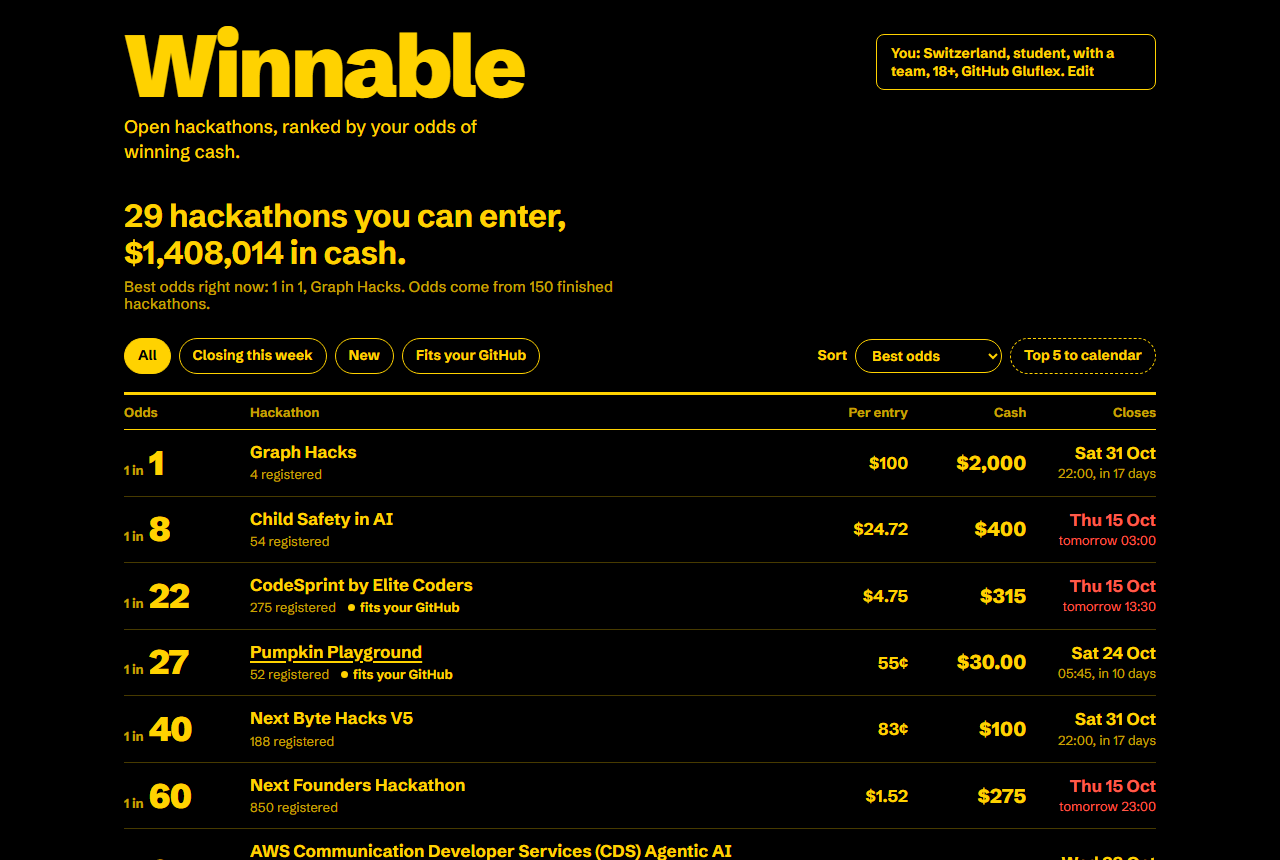
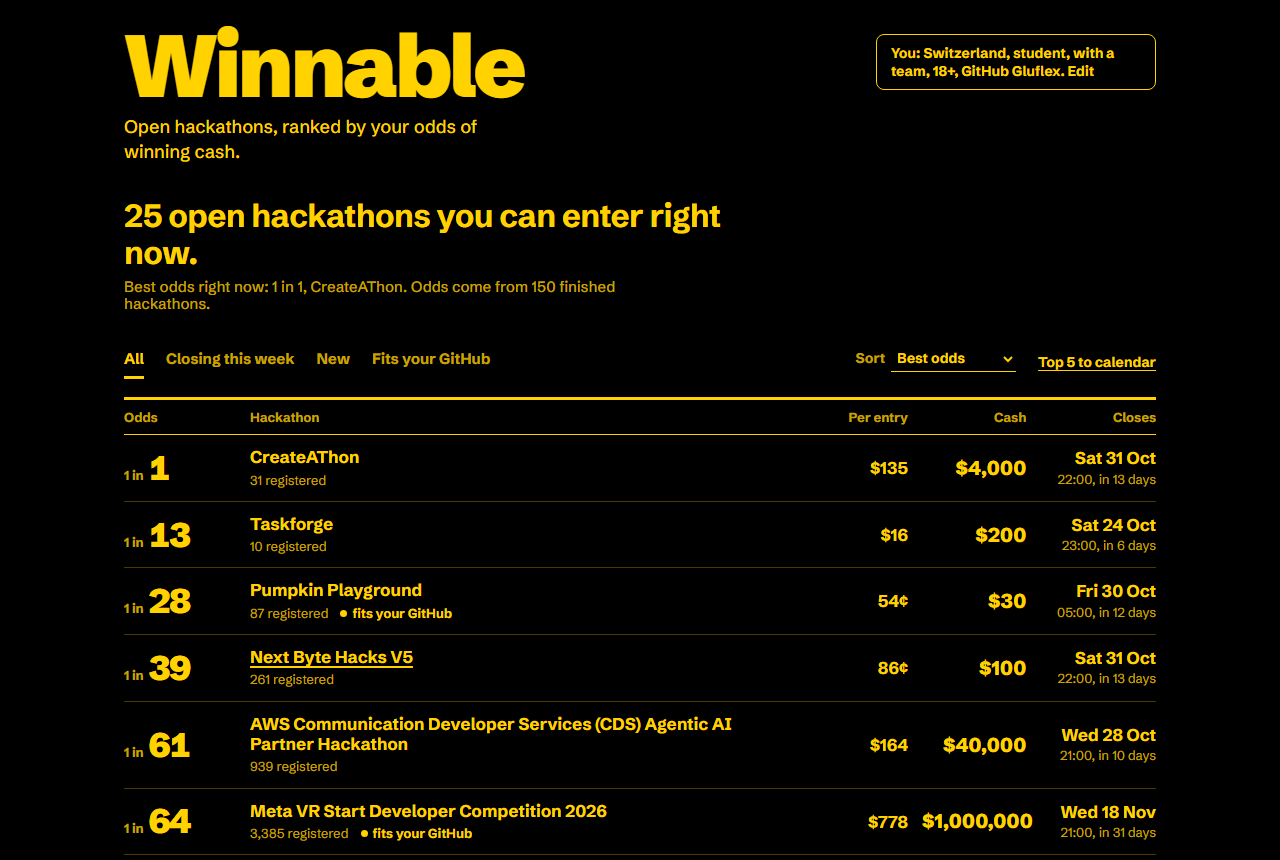
Final review and app map; README on 18.10 figures; first-visit panel guard

diff --git a/devpost/app-map.html b/devpost/app-map.html
@@ -1,0 +1,150 @@
+<!doctype html>
+<html lang="en">
+<head>
+<meta charset="utf-8">
+<meta name="viewport" content="width=device-width, initial-scale=1">
+<title>Winnable: app map</title>
+<style>
+  :root { --board: #ffd200; --ink: #000; --muted: rgba(0,0,0,.62); --rule: rgba(0,0,0,.22); --panel: #fff; }
+  * { box-sizing: border-box; }
+  html { background: var(--board); }
+  body { margin: 0 auto; max-width: 980px; padding: 40px 24px 80px; color: var(--ink);
+    font: 400 17px/1.5 "Helvetica Neue", Arial, sans-serif; }
+  h1 { font-size: 64px; line-height: .9; letter-spacing: -.04em; margin: 0 0 10px; font-weight: 900; }
+  h2 { font-size: 28px; letter-spacing: -.01em; margin: 44px 0 12px; padding-top: 14px; border-top: 4px solid var(--ink); }
+  h3 { font-size: 19px; margin: 0 0 6px; }
+  p, li { max-width: 72ch; }
+  .lead { font-size: 21px; font-weight: 500; }
+  .meta { color: var(--muted); font-size: 15px; }
+  code { font: 600 .92em/1.3 Consolas, "SF Mono", Menlo, monospace; background: rgba(0,0,0,.08); padding: 1px 5px; border-radius: 4px; }
+  pre { background: var(--panel); border: 2px solid var(--ink); border-radius: 10px; padding: 14px 16px; overflow-x: auto; font: 14px/1.45 Consolas, "SF Mono", Menlo, monospace; }
+  pre code { background: none; padding: 0; font-weight: 400; }
+  .stop { background: var(--panel); border: 2px solid var(--ink); border-radius: 12px; padding: 18px 20px; margin: 14px 0; }
+  .stop .n { display: inline-block; min-width: 34px; height: 34px; line-height: 34px; text-align: center; background: var(--ink); color: var(--board); border-radius: 50%; font-weight: 900; margin-right: 10px; }
+  .where { font-size: 15px; color: var(--muted); margin: 4px 0 8px; }
+  details { margin-top: 8px; }
+  summary { cursor: pointer; font-weight: 700; }
+  summary:focus-visible, a:focus-visible { outline: 3px solid var(--ink); outline-offset: 3px; }
+  table { border-collapse: collapse; width: 100%; background: var(--panel); border: 2px solid var(--ink); border-radius: 10px; overflow: hidden; }
+  td, th { text-align: left; padding: 10px 14px; border-bottom: 1px solid var(--rule); vertical-align: top; font-size: 16px; }
+  th { background: var(--ink); color: var(--board); }
+  svg { width: 100%; height: auto; display: block; }
+  .note { border-left: 0; background: rgba(0,0,0,.07); padding: 14px 18px; border-radius: 10px; }
+</style>
+</head>
+<body>
+<header>
+  <h1>Winnable</h1>
+  <p class="lead">App map: where things live, and one action followed from click to result.</p>
+  <p class="meta">Snapshot of commit <code>8dc153c</code> (18 October 2026). Code moves on; if a name below no longer matches, search for it.</p>
+</header>
+
+<h2>What the app does</h2>
+<p>Winnable lists every open Devpost hackathon and ranks it by your odds of winning cash. Three pieces do the work:</p>
+<ul>
+  <li><b>Collector</b> (<code>collector/collect.py</code>): runs daily, reads the Devpost API and every hackathon page, keeps only cash prizes, and fits how many registrants really submit. It writes one file, <code>data/hackathons.json</code>.</li>
+  <li><b>Ranking</b> (<code>site/js/rank.js</code>): pure functions that turn that file plus your profile into odds, expected cash and reasons you cannot enter. Tested in Node.</li>
+  <li><b>Board</b> (<code>site/js/app.js</code>): the page you see. Draws rows, the detail receipt and the "How the odds work" chart. Your profile stays in the browser's local storage.</li>
+</ul>
+
+<h2>One action, end to end</h2>
+<p>The action: open <b>About you</b>, pick a country, age and student status, press <b>Show my odds</b>. The board re-sorts and some hackathons move to "Not for you" with a reason.</p>
+
+<svg viewBox="0 0 940 300" role="img" aria-labelledby="dgT dgD">
+  <title id="dgT">Flow of the Show my odds action</title>
+  <desc id="dgD">The collector writes data/hackathons.json once a day. In the browser, the Show my odds handler in app.js saves the profile and calls render, which calls rankAll in rank.js; rankAll computes odds and eligibility for each hackathon from the data file and the profile, and render draws the ranked rows.</desc>
+  <defs><marker id="ar" viewBox="0 0 10 10" refX="9" refY="5" markerWidth="8" markerHeight="8" orient="auto"><path d="M0 0L10 5L0 10z" fill="#000"/></marker></defs>
+  <g font-family="Helvetica Neue, Arial, sans-serif" font-size="15">
+    <rect x="10" y="20" width="200" height="90" rx="10" fill="#fff" stroke="#000" stroke-width="2"/>
+    <text x="24" y="50" font-weight="700">collector/collect.py</text>
+    <text x="24" y="72">daily: Devpost, cash only,</text>
+    <text x="24" y="92">calibrate()</text>
+    <rect x="10" y="190" width="200" height="80" rx="10" fill="#000"/>
+    <text x="24" y="222" font-weight="700" fill="#ffd200">data/hackathons.json</text>
+    <text x="24" y="246" fill="#ffd200">hackathons + calibration</text>
+    <line x1="110" y1="110" x2="110" y2="186" stroke="#000" stroke-width="2" marker-end="url(#ar)"/>
+
+    <rect x="290" y="20" width="200" height="90" rx="10" fill="#fff" stroke="#000" stroke-width="2"/>
+    <text x="304" y="50" font-weight="700">1  app.js</text>
+    <text x="304" y="72">#pfDone handler:</text>
+    <text x="304" y="92">save profile, render(true)</text>
+
+    <rect x="560" y="20" width="200" height="90" rx="10" fill="#fff" stroke="#000" stroke-width="2"/>
+    <text x="574" y="50" font-weight="700">2  rank.js</text>
+    <text x="574" y="72">rankAll(): odds(),</text>
+    <text x="574" y="92">ineligibility()</text>
+
+    <rect x="560" y="190" width="200" height="80" rx="10" fill="#fff" stroke="#000" stroke-width="2"/>
+    <text x="574" y="222" font-weight="700">3  app.js render()</text>
+    <text x="574" y="246">rows, summary, receipt</text>
+
+    <rect x="800" y="190" width="130" height="80" rx="10" fill="#ffd200" stroke="#000" stroke-width="2"/>
+    <text x="814" y="222" font-weight="700">The board</text>
+    <text x="814" y="246">"1 in 61"</text>
+
+    <line x1="490" y1="65" x2="556" y2="65" stroke="#000" stroke-width="2" marker-end="url(#ar)"/>
+    <line x1="660" y1="110" x2="660" y2="186" stroke="#000" stroke-width="2" marker-end="url(#ar)"/>
+    <line x1="760" y1="230" x2="796" y2="230" stroke="#000" stroke-width="2" marker-end="url(#ar)"/>
+    <path d="M210 230 C 380 230, 420 160, 556 95" fill="none" stroke="#000" stroke-width="2" stroke-dasharray="6 5" marker-end="url(#ar)"/>
+    <text x="228" y="262" font-size="13">fetched once at boot()</text>
+  </g>
+</svg>
+
+<h2>Reference route</h2>
+<p class="meta">A route to follow on your own; it was not toured together. Open the folder in your editor and search for each anchor.</p>
+
+<div class="stop">
+  <h3><span class="n">1</span>The button saves your profile and redraws</h3>
+  <p class="where"><code>site/js/app.js</code>, search <code>openAbout</code>, then <code>$('#pfDone').onclick</code></p>
+  <p><code>openAbout()</code> builds the About you panel. Every change calls <code>update()</code>, which writes the profile to local storage with <code>save(PKEY, profile)</code>. Show my odds closes the panel and calls <code>render(true)</code>; the <code>true</code> turns on the row animation.</p>
+  <details><summary>The handler</summary>
+<pre><code>$('#pfDone').onclick = async () =&gt; {
+  update();
+  closePanel();
+  render(true);
+  await loadGithub();
+};</code></pre></details>
+</div>
+
+<div class="stop">
+  <h3><span class="n">2</span>The odds and the reasons are worked out</h3>
+  <p class="where"><code>site/js/rank.js</code>, search <code>export function rankAll</code>, <code>export function odds</code>, <code>export function ineligibility</code></p>
+  <p><code>rankAll()</code> runs two functions per hackathon. <code>odds()</code> projects registrants to the deadline (<code>projectedRegistrants</code>), converts them to expected submissions with the calibration <code>a × registrants^b</code> (<code>expectedSubmissions</code>), and divides cash prize slots by that. <code>ineligibility()</code> returns plain reasons such as "Not open in Brazil" or "In person: Singapore". No reasons and open long enough: the row goes to the ranked list; otherwise "Not for you" or "Opening soon".</p>
+  <details><summary>The odds in one place</summary>
+<pre><code>const projected = projectedRegistrants(h, now);
+const subs = expectedSubmissions(projected, calib);
+const pAny = slots ? Math.min(1, slots / subs) : 0;
+// oneIn = round(1 / pAny), ev = totalCash / max(subs, slots)</code></pre></details>
+</div>
+
+<div class="stop">
+  <h3><span class="n">3</span>The result is drawn</h3>
+  <p class="where"><code>site/js/app.js</code>, search <code>function render</code>, <code>function rowHtml</code>, <code>function openDetail</code></p>
+  <p><code>render()</code> calls <code>rankAll(DATA, profile, new Date(), sort)</code>, writes each row with <code>rowHtml()</code> and the headline with <code>summary()</code>. Clicking a row runs <code>openDetail()</code>, which prints the same numbers as a receipt: registered today, projected, expected to submit, cash prizes, chance, expected cash.</p>
+</div>
+
+<h2>To change this, start here</h2>
+<table>
+  <tr><th>You want to change</th><th>Start at</th><th>Check with</th></tr>
+  <tr><td>How odds are calculated</td><td><code>site/js/rank.js</code> <code>odds()</code>, <code>expectedSubmissions()</code></td><td><code>node tests/test_rank.mjs</code></td></tr>
+  <tr><td>A new "cannot enter" rule</td><td><code>rank.js</code> <code>ineligibility()</code>; the data comes from <code>collector/collect.py</code> <code>parse_eligibility()</code></td><td><code>node tests/test_rank.mjs</code></td></tr>
+  <tr><td>What counts as cash</td><td><code>collect.py</code> <code>paid_in_kind()</code>, <code>parse_prizes()</code>; <code>rank.js</code> <code>isParticipation</code></td><td>rerun the collector, open a hackathon's Prizes</td></tr>
+  <tr><td>How a location reads in a reason</td><td><code>rank.js</code> <code>place()</code> (trims organiser-typed trailing commas, added 18.10)</td><td><code>node tests/test_rank.mjs</code></td></tr>
+  <tr><td>Colours and type</td><td><code>site/css/style.css</code> tokens <code>--board</code>, <code>--ink</code></td><td><code>python tests/verify.py</code> (desktop, dark, phone screenshots)</td></tr>
+</table>
+
+<h2>A practice to reuse</h2>
+<div class="note">
+  <p><b>Name the one assumption the product depends on, and test it against real data early.</b> Every ranking here rests on one guess: how many registrants actually submit. <code>devpost/spec.md</code>, section "Decisions and Open Issues", records it as the genuine uncertainty, with five finished hackathons giving rates from 0.24 to 0.53. The build then fitted the curve on 150 finished hackathons (<code>calibrate()</code> in <code>collector/collect.py</code>) and shows the scatter in "How the odds work", so the spread is visible instead of hidden.</p>
+  <p>The same habit caught the plan's gaps. The first real data put a hackathon that opened that day at the top on four registrants; the fix (project the field from the elapsed share of the period, hold back hackathons under a fifth through) is recorded under "Revisions" in <code>devpost/checklist.md</code> and pinned by the <code>projectedRegistrants</code> tests in <code>tests/test_rank.mjs</code>.</p>
+  <p>On another project: write the riskiest assumption into the spec, check it on a handful of real cases before building on it, and when real data proves the plan wrong, record the revision and add a test that keeps the fix in place.</p>
+</div>
+
+<h2>Run it again</h2>
+<pre><code>python collector/collect.py          # first run about 20 minutes (calibration), later about 3
+python -m http.server 8080           # then open http://localhost:8080/site/
+node tests/test_rank.mjs &amp;&amp; node tests/test_ics_github.mjs
+python tests/verify.py http://localhost:8080/site/   # needs Playwright</code></pre>
+<p class="meta">Needs Python 3.12 and curl (Devpost refuses Python's own HTTP client). No build step. Live version: winnable.lcatarci.workers.dev</p>
+</body>
+</html>

diff --git a/site/js/app.js b/site/js/app.js
@@ -315,7 +315,8 @@ async function boot() {
   $('#sortSel').onchange = (e) => { sort = e.target.value; render(true); };
   $('#topCal').onclick = () => download('winnable-top5.ics', buildIcs(ranked.eligible.filter((r) => r.oneIn).slice(0, 5)));
   save(VKEY, new Date().toISOString());
-  if (!hasProfile()) setTimeout(openAbout, 600);
+  // first visit: offer the profile, unless the visitor already opened a panel or answered
+  if (!hasProfile()) setTimeout(() => !hasProfile() && $('#panel').hidden && openAbout(), 600);
   else loadGithub();
 }
 boot();

diff --git a/devpost/checklist.md b/devpost/checklist.md
@@ -83,23 +83,25 @@ Build mode: fast
 ## Hands-on Checkpoints
 
 - [x] Early usable behavior explored — after slices 3 to 6: agent click-through with screenshots on desktop light, dark and phone; fixes applied (open count on first visit, lighter overlay, phone labels for per-entry and cash)
-- [ ] Final kick-the-tires exploration and feedback completed
+- [x] Final kick-the-tires exploration and feedback completed — 18 Oct, agent exploration under Leandro's delegation (14.10.2026): live board with two profiles (Brazil, under 18, high school: 0 enterable, every empty state reads clearly; Germany, adult: 11 enterable), unknown GitHub user (message shown, filter hidden), all filters and sorts, detail open and Escape, top-5 calendar (5 valid events), phone at 375 px (no sideways scroll), desktop light and dark via tests/verify.py (0 console errors)
 
 ## Final Review
 
-- [ ] Final review complete — feedback resolved and learner confirms ready to ship
+- [x] Final review complete — feedback resolved and learner confirms ready to ship (confirmation under Leandro's delegation of 14.10.2026; his own look happens when he reviews the submission package)
+- [x] Fix: organiser-typed trailing commas in locations ("In person: Block 45, Sharda University, ") — `place()` in rank.js, test added, committed
+- [x] Fix: the first-visit About panel no longer reopens over a panel the visitor already opened within 600 ms — guarded in `boot()`, checked in the browser
 
 ## Code Tour and App Map
 
-- [ ] Learning activity complete — guided route, focused alternative, prior practice connected, or brief recap
-- [ ] Optional edit and transfer reflection addressed — offered/declined/already covered/not applicable as appropriate
-- [ ] `devpost/app-map.html` generated from finished code, checked, and shown, including a project-grounded practice to reuse
+- [x] Learning activity complete — guided route, focused alternative, prior practice connected, or brief recap
+- [x] Optional edit and transfer reflection addressed — offered/declined/already covered/not applicable as appropriate
+- [x] `devpost/app-map.html` generated from finished code, checked, and shown, including a project-grounded practice to reuse
 
-Activity and evidence: not started
-Route and stops: not started
-Edit outcome: not started
-Reflection: not started
-Activity mode: not started
+Activity and evidence: brief evidence-based recap, not hands-on practice (the learner delegated the build and was not present). Evidence: spec.md "Decisions and Open Issues" (submission-rate uncertainty, 5 points, 0.24 to 0.53) resolved by the 150-point calibration; the day-one ranking revision pinned by the projectedRegistrants tests
+Route and stops: reference route in the map, not toured together: app.js #pfDone handler, rank.js rankAll/odds/ineligibility, app.js render/rowHtml/openDetail
+Edit outcome: not applicable (no learner session)
+Reflection: not offered (no learner session); the transfer question is left for Leandro
+Activity mode: recap. Map: devpost/app-map.html, generated against commit 8dc153c, checked offline with scripts disabled (no network requests, all anchors present in the source)
 
 ## Revisions
 

diff --git a/README.md b/README.md
@@ -2,7 +2,9 @@
 
 **Open hackathons, ranked by your odds of winning cash.**
 
-Devpost lists every hackathon by prize or deadline. The biggest prize is rarely the best bet: on 14 October 2026 Amazon's hackathon, USD 128,000 in cash and 55,000 registrants, worked out at about 1 in 900 for an average entry. An AWS hackathon open to the same people, USD 40,000 and 900 registrants, was 1 in 65. Winnable reads every open Devpost hackathon each day, works out how many people will really submit, counts only cash, checks whether you may enter at all, and ranks what is left by your odds.
+**Try it:** [winnable.lcatarci.workers.dev](https://winnable.lcatarci.workers.dev)
+
+Devpost lists every hackathon by prize or deadline. The biggest prize is rarely the best bet: on 18 October 2026 Amazon's hackathon, USD 128,000 in cash and 56,786 registrants, worked out at 1 in 857 for an average entry. An AWS hackathon open to the same people, USD 40,000 and 939 registrants, was 1 in 61. Winnable reads every open Devpost hackathon each day, works out how many people will really submit, counts only cash, checks whether you may enter at all, and ranks what is left by your odds.
 
 ![The Winnable board](docs/img/board.png)
 
